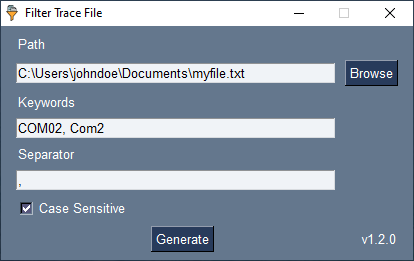
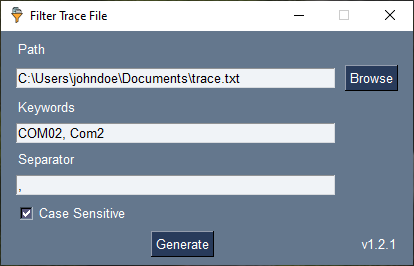
Updated images

diff --git a/src/main.py b/src/main.py
@@ -4,7 +4,7 @@ from filemanager import FileManager
 
 VERSION = 'v1.2.1'
 GUI_TITLE = 'Filter Trace File'
-GUI_ICON = 'C:\\Users\\sohara\\Projects\\Filter-Trace-File\\icons\\filtering.ico'
+GUI_ICON = 'filtering.ico'
 
 file_manager = FileManager()
 
